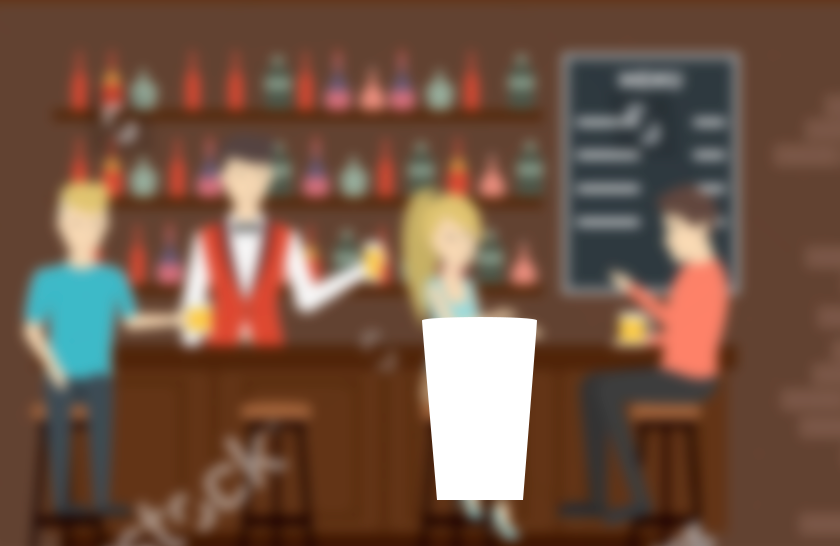
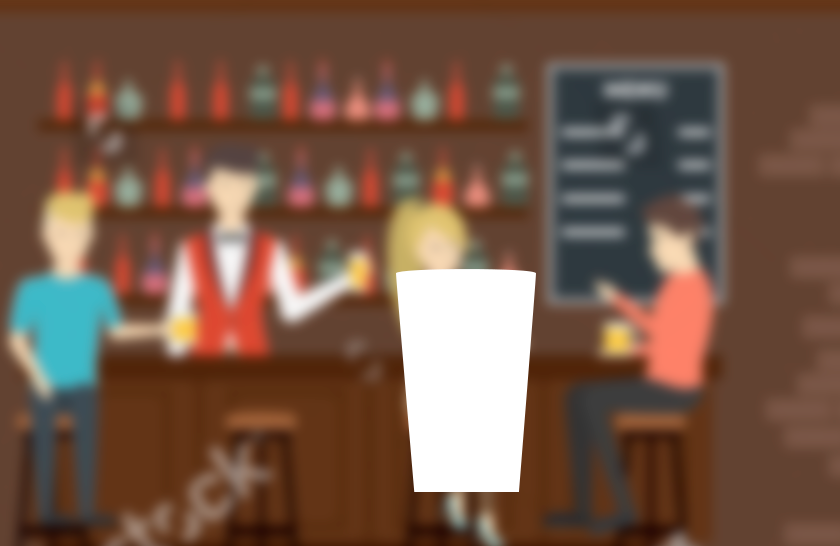
big glass

diff --git a/app.js b/app.js
@@ -54,14 +54,14 @@ var states = {
 
 var maxHeight;
 var waterX = 248;
-var waterMaskWidth = 115;
-var waterMaskHeight = 183
-var waterMaskY = 498 - waterMaskHeight;
+var waterMaskWidth = 150;
+var waterMaskHeight;
+var waterMaskY;
 var waterMaskX = 422;
 
 var glassWaterHeight = 0;
-var glassWaterHeightMin = 501;
-var glassWaterHeightMax =  501 - waterMaskHeight;
+var glassWaterHeightMin = 455;
+var glassWaterHeightMax =  232;
 
 var speed = 100;
 var leftMax = 0;
@@ -76,10 +76,12 @@ var glassAngleMin = 0.3;
 var glassAngleMax = 1.5;
 var glassAnchorX = 0.95;
 var glassAnchorY = 0;
-var glassX = 685;
-var glassY = 170;
-var glassY1 = 183;
+var glassX = 685 - 12;
+var glassY = 173;
+var glassY1 = 186;
 
+var mainMaskX = 422;
+var mainMaskY = 232;
 
 var tankWaterMin = 540;
 var tankWaterMax = 540;
@@ -136,7 +138,7 @@ preloader.prototype = {
         this.game.load.image('bubble', 'images/bubble.png');
 
         this.game.load.json('grad');
-       
+
         this.game.load.onLoadComplete.add(function (progress, file, success, t, t1) {
             game.state.start('menu');
         })
@@ -158,7 +160,7 @@ ingame.prototype = {
         this.back.x = 0;
         this.back.y = 0;
 
-        //this.back.visible = false;
+        this.back.visible = false;
 
         this.scoreText = this.game.add.text(50, 20, "Scores: " + scores, {
             align: 'left',
@@ -172,13 +174,14 @@ ingame.prototype = {
         //this.glass.scale.set(0.30);
         this.glass.anchor.y = 1;
         this.glass.x = 420;
-        this.glass.y = 537;
+        this.glass.y = 500;
 
 
 
+        
         this.water = this.game.add.graphics(0, 0);
         this.water.beginFill(0xffbf00);
-        this.water.drawRect(0, 0, waterMaskWidth, waterMaskHeight);
+        this.water.drawRect(0, 0, waterMaskWidth, this.grad.mainMask.grad.length);
         this.water.endFill();
         this.water.x = waterMaskX;
         this.water.y = glassWaterHeightMin;
@@ -187,7 +190,7 @@ ingame.prototype = {
         this.bottle = this.game.add.sprite(0, 0, 'bottle');
         window.bottle = this.bottle;
         this.bottle.x = 0;
-        this.bottle.y = 0;
+        this.bottle.y = -80;
 
         this.flow1 = this.game.add.group();
         this.flow1.addChild(this.bottle);
@@ -353,7 +356,7 @@ ingame.prototype = {
             this.glass.anchor.set(0, 1);
             //this.glass.anchor.y = 1;
             this.glass.x = 420;
-            this.glass.y = 537;
+            this.glass.y = 500;
             this.glass.rotation = 0;
             this.tankWater.y = tankWaterMin;
             state = states.idle;
@@ -510,7 +513,7 @@ ingame.prototype = {
         var mainMask = new Phaser.Image(this.game, 0, 0, 'mainMask');
 
         bmdMask1.copyRect(london, new Phaser.Rectangle(0,0, london.width, london.height), 0,0);
-        bmdMask1.copyRect(mainMask, new Phaser.Rectangle(0, 0, mainMask.width, mainMask.height), 422, 318, 1, 'xor') ;
+        bmdMask1.copyRect(mainMask, new Phaser.Rectangle(0, 0, mainMask.width, mainMask.height), mainMaskX, mainMaskY, 1, 'xor');
         bmdMask1.copyRect(alpha, new Phaser.Rectangle(0, 0, alpha.width, alpha.height), x, y, 1 , 'xor') ;
 
         this.game.cache.addBitmapData('bmd1', bmdMask1);
@@ -527,7 +530,7 @@ ingame.prototype = {
         var mainMask = new Phaser.Image(this.game, 0, 0, 'mainMask');
 
         bmdMask2.copyRect(london, new Phaser.Rectangle(0,0, london.width, london.height), 0,0);
-        bmdMask2.copyRect(mainMask, new Phaser.Rectangle(0, 0, mainMask.width, mainMask.height), 422, 318, 1, 'xor') ;
+        bmdMask2.copyRect(mainMask, new Phaser.Rectangle(0, 0, mainMask.width, mainMask.height), mainMaskX, mainMaskY, 1, 'xor') ;
         bmdMask2.copyRect(alpha, new Phaser.Rectangle(0, 0, alpha.width, alpha.height), x, y, 1 , 'xor') ;
 
         this.game.cache.addBitmapData('bmd2', bmdMask2);
@@ -544,7 +547,7 @@ ingame.prototype = {
         var mainMask = new Phaser.Image(this.game, 0, 0, 'mainMask');
 
         bmdMask3.copyRect(london, new Phaser.Rectangle(0,0, london.width, london.height), 0,0);
-        bmdMask3.copyRect(mainMask, new Phaser.Rectangle(0, 0, mainMask.width, mainMask.height), 422, 318, 1, 'xor') ;
+        bmdMask3.copyRect(mainMask, new Phaser.Rectangle(0, 0, mainMask.width, mainMask.height), mainMaskX, mainMaskY, 1, 'xor') ;
         bmdMask3.copyRect(alpha, new Phaser.Rectangle(0, 0, alpha.width, alpha.height), x, y, 1 , 'xor') ;
 
         this.game.cache.addBitmapData('bmd3', bmdMask3);
@@ -561,7 +564,7 @@ ingame.prototype = {
         var mainMask = new Phaser.Image(this.game, 0, 0, 'mainMask');
 
         bmdMask4.copyRect(london, new Phaser.Rectangle(0,0, london.width, london.height), 0,0);
-        bmdMask4.copyRect(mainMask, new Phaser.Rectangle(0, 0, mainMask.width, mainMask.height), 422, 318, 1, 'xor') ;
+        bmdMask4.copyRect(mainMask, new Phaser.Rectangle(0, 0, mainMask.width, mainMask.height), mainMaskX, mainMaskY, 1, 'xor') ;
         bmdMask4.copyRect(alpha, new Phaser.Rectangle(0, 0, alpha.width, alpha.height), x, y, 1 , 'xor') ;
 
         this.game.cache.addBitmapData('bmd4', bmdMask4);
@@ -631,16 +634,16 @@ ingame.prototype = {
         a = a || 0.3
         g.rotation = a;
 
-        var wt = 115;
-        var wb = 86;
-        var h = 180;
+        var wt = 140;
+        var wb = 104;
+        var h = 219;
         var dw = (wt - wb) / 2 + 3;
         var gx = g.x - 3;
         var gy = g.y + 3;
 
-        var line0 = new Phaser.Line().fromAngle(gx, gy, g.rotation + Math.PI, 15);
+        var line0 = new Phaser.Line().fromAngle(gx + 5, gy, g.rotation + Math.PI, 15);
 
-        var line1_pre = new Phaser.Line(gx,gy, gx - dw, gy + h);
+        var line1_pre = new Phaser.Line(gx,gy, gx - dw + 5, gy + h);
         var angle1 = line1_pre.angle + a;
         var line1 = new Phaser.Line().fromAngle(gx, gy, angle1, line1_pre.length);
 
@@ -649,7 +652,7 @@ ingame.prototype = {
         var line2_pre2 = new Phaser.Line().fromAngle(gx, gy, angle2, line2_pre.length);
         var line2 = new Phaser.Line(line1.end.x, line1.end.y, line2_pre2.end.x, line2_pre2.end.y);
 
-        var line3_pre = new Phaser.Line().fromAngle(gx, gy, g.rotation + Math.PI, wt + 3);
+        var line3_pre = new Phaser.Line().fromAngle(gx, gy, g.rotation + Math.PI, wt - 8);
         var line3_pre2 = new Phaser.Line(line2.end.x, line2.end.y, line3_pre.end.x, line3_pre.end.y);
         var line3_pre3 = new Phaser.Line().fromAngle(line0.end.x, line0.end.y, Math.PI, 500);
 
@@ -778,7 +781,7 @@ testGraph.prototype = {
         this.game.load.image('mask2', 'prepareimage/glass2mask.png');
         this.game.load.image('mask3', 'prepareimage/glass3mask.png');
         this.game.load.image('mask4', 'prepareimage/glass4mask.png');
-        this.game.load.image('mainMask', 'prepareimage/glassMainMask.png');
+        this.game.load.image('mainMask', 'images/glassMainMask.png');
         this.game.load.image('london', 'images/bg_london.png');
 
         this.game.load.json('grad');
@@ -786,19 +789,7 @@ testGraph.prototype = {
     },
     create: function () {
         window.self = this;
-        this.game.stage.backgroundColor = 25000
-        this.bmd = this.game.make.bitmapData(this.game.width, this.game.height);
-
-        this.bmdMask = this.game.make.bitmapData(this.game.width, this.game.height);
-        this.bmdMask.context.fillStyle = '#ffffff'
-        var alpha = new Phaser.Image(this.game, 0,0, 'alpha', 'glass1mask')
-        var london = new Phaser.Image(this.game, 0,0, 'london');
-        this.bmdMask.copyRect(london, new Phaser.Rectangle(0,0, london.width, london.height), 0,0);
-        this.bmdMask.copyRect(alpha, new Phaser.Rectangle(0, 0, alpha.width, alpha.height), 150,150, 1, 'xor') ;
-        this.bg = this.game.add.sprite(0,0,this.bmdMask);
-
-        return;
-        var el = game.cache._cache.image.mainMask.data;
+        var el = game.cache._cache.image["mainMask"].data;
         game.context.drawImage(el, 0,0, el.width, el.height);
         window.image = game.context.getImageData(0,0,el.width, el.height);
         var data = image.data;
